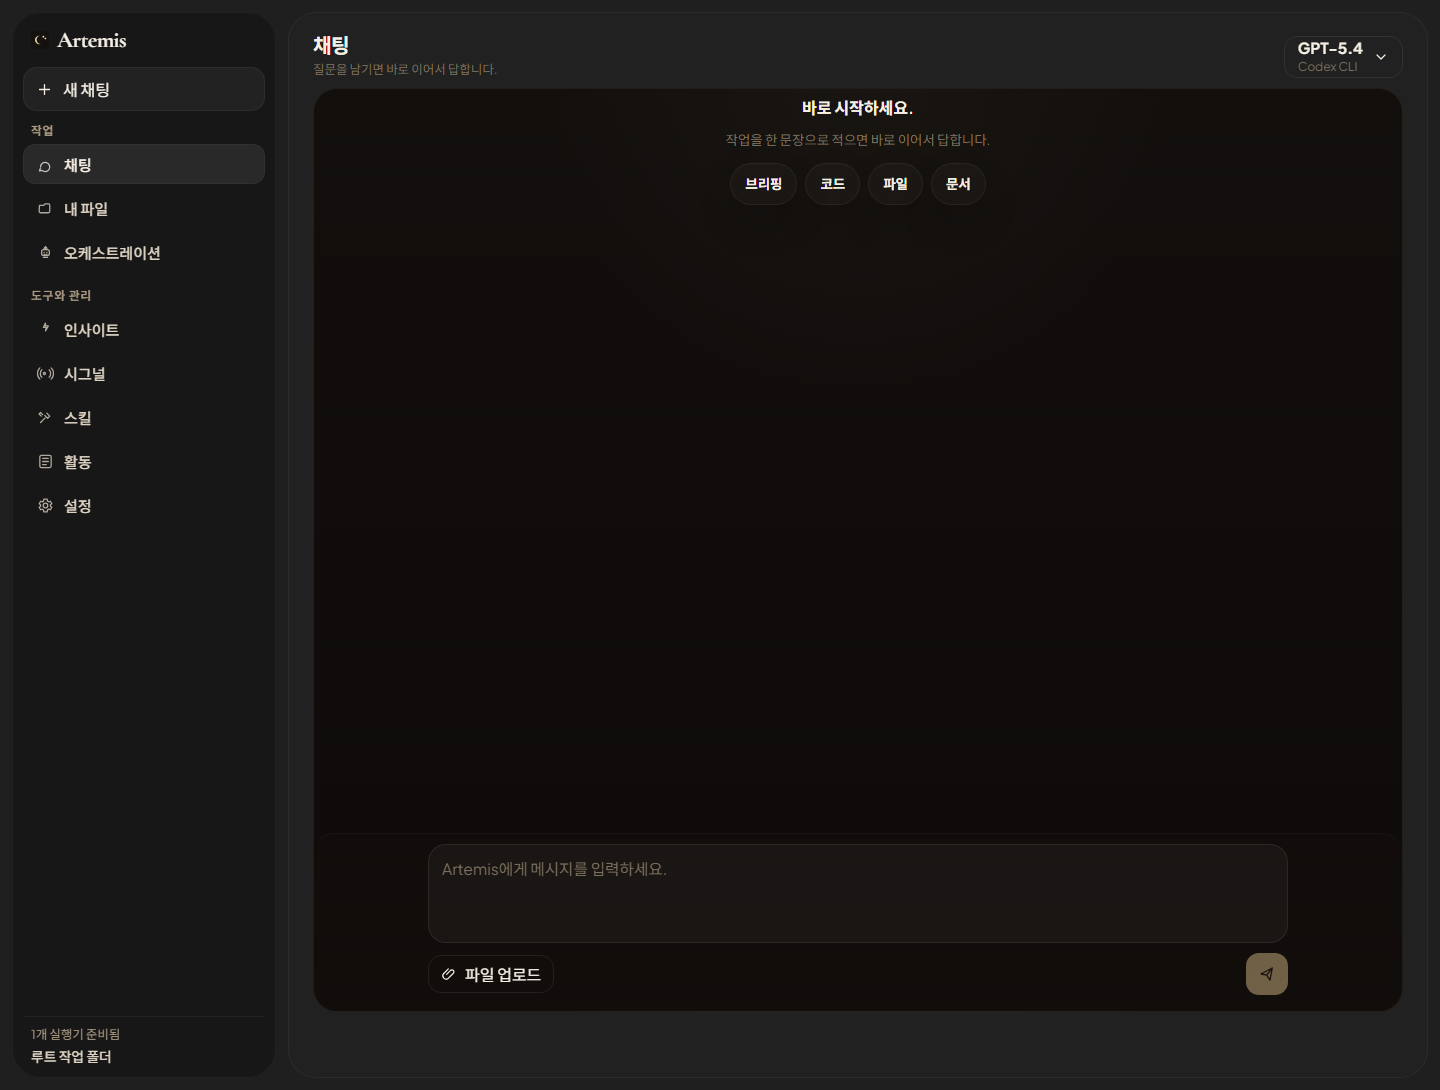
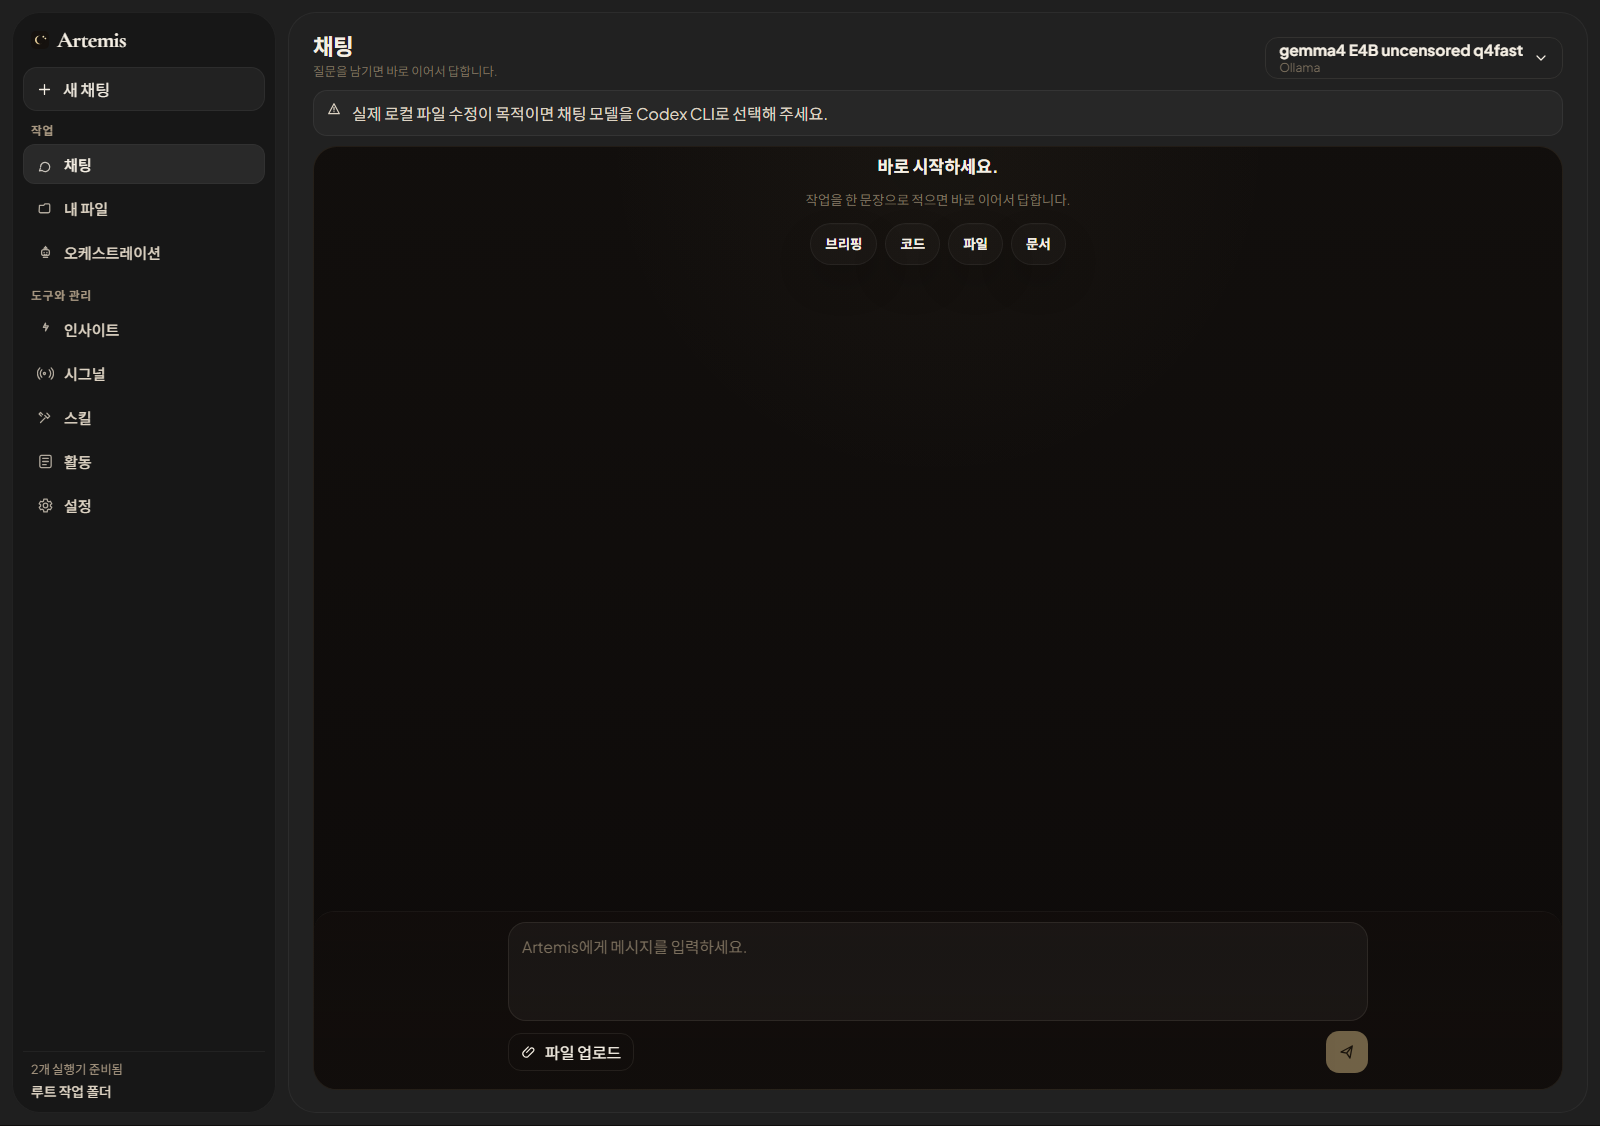
fix: hide workspace path in orchestration screenshots

diff --git a/src/pages/OrchestrationPage.tsx b/src/pages/OrchestrationPage.tsx
@@ -43,6 +43,21 @@ function runningHint(provider: string) {
   return '현재 공급자는 스트리밍으로 응답을 보내는 중입니다. 결과와 시도 로그가 순서대로 갱신됩니다.'
 }
 
+function summarizeWorkspaceLabel(workspaceCurrentPath?: string, workspaceAbsolutePath?: string) {
+  const resolved = workspaceCurrentPath || workspaceAbsolutePath
+
+  if (!resolved) {
+    return '연결 필요'
+  }
+
+  if (!workspaceCurrentPath || workspaceCurrentPath === workspaceAbsolutePath) {
+    return '루트 작업 폴더'
+  }
+
+  const segments = workspaceCurrentPath.split(/[\\/]/).filter(Boolean)
+  return segments.at(-1) || '현재 작업 폴더'
+}
+
 export function OrchestrationPage({ onNavigate }: { onNavigate: (page: PageId) => void }) {
   const {
     activeAgent,
@@ -117,6 +132,7 @@ export function OrchestrationPage({ onNavigate }: { onNavigate: (page: PageId) =
   const requiresApiKey =
     (activeAgent?.provider === 'openai-compatible' || activeAgent?.provider === 'anthropic') &&
     !state.apiKeys.some((item) => item.id === activeAgent.apiKeyId)
+  const workspaceLabel = summarizeWorkspaceLabel(workspaceCurrentPath, workspaceAbsolutePath)
 
   const canRunTask =
     Boolean(activeAgent) &&
@@ -216,7 +232,7 @@ export function OrchestrationPage({ onNavigate }: { onNavigate: (page: PageId) =
               실행기 {readyProviderCount}개
             </span>
             <span className={`chip ${hasWorkspaceConnection ? 'is-active' : 'chip--soft'}`}>
-              작업 폴더 {workspaceCurrentPath || '루트'}
+              작업 폴더 {workspaceLabel}
             </span>
           </div>
         </div>
@@ -255,7 +271,7 @@ export function OrchestrationPage({ onNavigate }: { onNavigate: (page: PageId) =
 
             <div className="orchestration-inline-dock__meta">
               <span className="chip chip--soft">
-                작업 폴더 {workspaceCurrentPath || workspaceAbsolutePath || '연결 필요'}
+                작업 폴더 {workspaceLabel}
               </span>
               <span className="chip chip--soft">
                 최근 입력 {latestMasterMessage ? '있음' : '없음'}

diff --git a/memory/current_focus.md b/memory/current_focus.md
@@ -26,12 +26,14 @@
 - Settings now exposes a dedicated `0. 로컬 실행기` section before the official API section.
 - The local section shows both `Ollama 로컬` and `Codex CLI` with live readiness and current model labels.
 - When Ollama is temporarily unavailable, the bridge now returns the real failure detail instead of a generic `모델이 없습니다` message.
+- Orchestration no longer renders absolute workspace paths in the visible run dock; public-facing screenshots should show only safe labels such as `루트 작업 폴더`.
 
 ## Next Checks
 
 - Confirm the settings collapsible sections still read well on smaller widths.
 - Decide whether the chat model picker should default to the official router or keep the current agent.
 - Revisit orchestration spacing only if the interactive layout regresses again.
+- Keep public screenshots regenerated from the demo workspace whenever orchestration UI labels change.
 
 ## 2026-04-15 Follow-up
 

diff --git a/memory/change_log.md b/memory/change_log.md
@@ -45,3 +45,8 @@
 - Bumped persisted runtime storage to `artemis-runtime-state/v17`.
 - Migrated saved state so `agent-ollama` becomes active when the stored model provider is already `ollama`.
 - Kept `gemma4-E4B-uncensored-q4fast:latest` as the only expected Ollama model.
+
+### Public screenshot path leak fix
+
+- Replaced visible orchestration path chips with a safe workspace label helper so the run dock no longer exposes absolute local paths.
+- Regenerated the tracked `docs/screenshots/*.png` set from the demo workspace after the orchestration label change.
